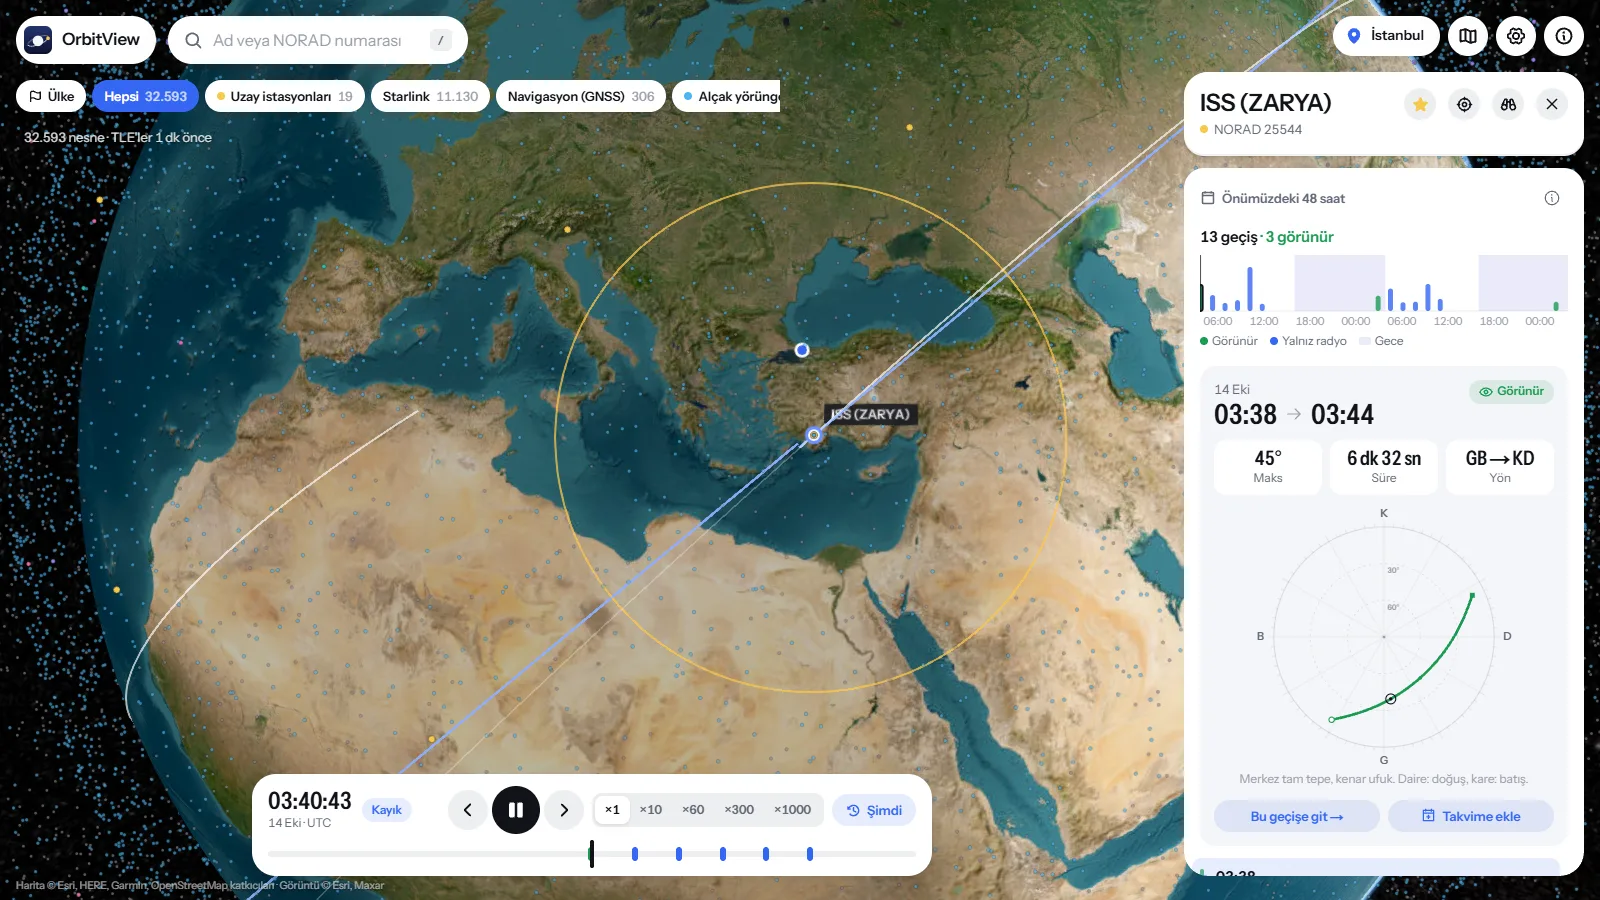
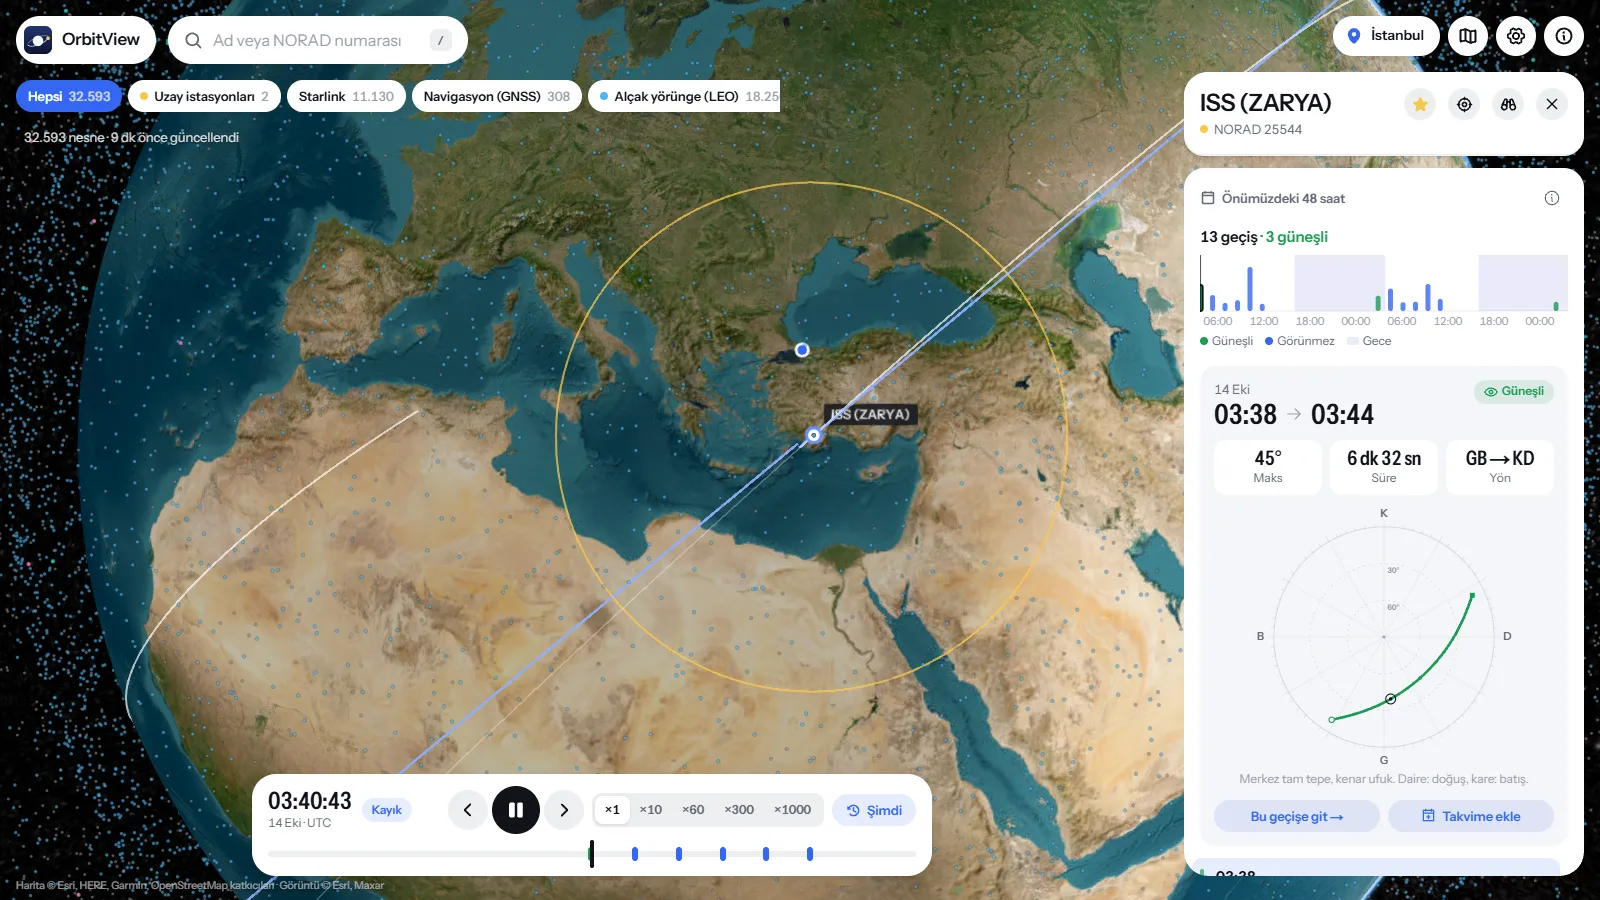
docs: station count, sunlit passes, redraw rate; new screenshots

diff --git a/docs/validation.md b/docs/validation.md
@@ -35,6 +35,7 @@ GEO satellite showed about 3 km/s of range rate, roughly 100 kHz at 12 GHz.
 | Maximum elevation | 5-second samples across the pass | none higher than reported + 0.01° |
 | Pass already in progress at window start | — | flagged, starts at the window |
 | Pass still in progress at window end | the same pass in a wider window | same LOS to 2 s |
+| "Sunlit" flag over three days | 5-second scan of sunlight and sky darkness | any sunlit stretch over 30 s is flagged; nothing in shadow is |
 
 ## Lifetime
 
@@ -45,6 +46,7 @@ GEO satellite showed about 3 km/s of range rate, roughly 100 kHz at 12 GHz.
 | Lower perigee | shorter lifetime |
 | B* = 0 | "drag not measurable" |
 | 1200 km perigee | beyond the 25-year horizon |
+| Badge | weeks / months / years / long-lived from the lifetime, not the perigee |
 
 ## Close approaches
 
@@ -65,6 +67,16 @@ GEO satellite showed about 3 km/s of range rate, roughly 100 kHz at 12 GHz.
 | SATCAT parsing | decayed objects dropped, quoted names, radar size |
 | Night window (Istanbul) | Sun below −6° just inside both edges, above it just before dusk |
 | Shared pass cache | one calculation per key; previous result shown while a new window loads |
+
+## Catalog labels — `catalog.test.ts`
+
+| What | Assertion |
+|---|---|
+| Space stations | exactly the ISS and Tiangong, not modules, vehicles, cubesats or "ISS DEB" |
+| Regime | geostationary needs i < 5°; BeiDou IGSO and QZSS are MEO; Molniya HEO; broken lines don't crash |
+| Debris | "OBJECT A" is not debris; SATCAT's object type wins over the name |
+| Chip counts | LEO + MEO + GEO + HEO + debris = everything, with and without SATCAT |
+| GNSS | real catalog names of GPS, GLONASS (incl. K), Galileo, BeiDou, QZSS, NavIC |
 
 ## Data layer — `tle.test.ts`, `db.test.ts`, `SpaceWeather.test.ts`, `route.test.ts`
 

diff --git a/README.tr.md b/README.tr.md
@@ -27,17 +27,18 @@ baştan dikkatle gözden geçirdim (aşağıda yazdığım birkaç gerçek düze
 ## Neler yapıyor
 
 - **Canlı katalog.** Aktif uydular (Space-Track hesabıyla enkaz dahil tüm
-  katalog) 3B kürede, saniyede 20 kez güncelleniyor. Renk yörüngeyi gösteriyor:
-  alçak yörünge açık mavi, orta yörünge camgöbeği, yer eşzamanlı mor, yüksek
-  eliptik pembe, istasyonlar sarı.
+  katalog) 3B kürede; bir şey hareket ettikçe yeniden çiziliyor (saniyede en
+  fazla 15 kez civarı, duraklatınca hiç). Renk yörüngeyi gösteriyor: alçak
+  yörünge açık mavi, orta yörünge camgöbeği, yer durağan mor, yüksek eliptik
+  pembe, enkaz gri; iki insanlı istasyon (ISS ve Tiangong) sarı.
 - **Üzerinizden geçişler.** Seçtiğiniz nesnenin konumunuzdan önümüzdeki 48
   saatteki geçişleri: yarım saniye hassasiyetle doğuş ve batış, en yüksek açı,
-  yön ve gerçekten görüp göremeyeceğiniz (uydu güneş altında, sizin
-  gökyüzünüz karanlık). Hepsi gece bölümleri gölgeli tek bir şeritte.
+  yön ve sizin gökyüzünüz karanlıkken uydunun güneş altında olup olmadığı —
+  yalnız en yüksek noktada değil, geçişin herhangi bir anında. Hepsi gece bölümleri gölgeli tek bir şeritte.
 - **Şu an önemli olan.** İlk kart duruma göre değişiyor: *şu an tepede, 3 dk
   sonra batıyor*; *görünür geçiş 21:42, en fazla 63°*; ya da sadece sıradaki
   geçiş.
-- **Doppler.** Bilinen iniş frekansları (ISS ses ve APRS, NOAA APT, Meteor LRPT,
+- **Doppler.** Bilinen iniş frekansları (ISS ses ve APRS, Meteor LRPT,
   GPS L1, Ku bandı) ya da yazdığınız herhangi bir frekans için alınan frekans ve
   kayma; sıradaki geçiş boyunca kayma eğrisi.
 - **Yörünge.** Ortalama elemanlar, yerberi/yeröte, periyot, eğim ve eleman

diff --git a/README.md b/README.md
@@ -26,18 +26,20 @@ from scratch.
 ## What it does
 
 - **Live catalog.** The active satellites (and, with a Space-Track account, the
-  full catalog including debris) drawn on a 3D globe and updated 20 times a
-  second. Colour shows the orbit: low Earth orbit in sky blue, MEO teal, GEO
-  violet, highly elliptical pink, stations yellow.
+  full catalog including debris) drawn on a 3D globe, redrawn when something
+  moves (up to about 15 times a second, not at all while paused). Colour shows
+  the orbit: low Earth orbit in sky blue, MEO teal, geostationary violet,
+  highly elliptical pink, debris grey; the two crewed stations (ISS and
+  Tiangong) are yellow.
 - **Passes over you.** For any object, the passes in the next 48 hours from
   your location: rise and set times to half a second, maximum elevation,
-  direction, and whether you'll actually see it (satellite in sunlight, your sky
-  dark). A strip shows all of them at once, with night shaded.
+  direction, and whether it is sunlit while your sky is dark — at any point
+  of the pass, not only at its highest. A strip shows all of them at once, with night shaded.
 - **What matters now.** The first card changes with the situation:
   *overhead now, sets in 3 min*; *visible pass at 21:42, up to 63°*; or simply
   the next pass.
 - **Doppler.** Received frequency and shift for common downlinks (ISS voice and
-  APRS, NOAA APT, Meteor LRPT, GPS L1, Ku band) or any frequency you type, plus
+  APRS, Meteor LRPT, GPS L1, Ku band) or any frequency you type, plus
   the shift curve across the next pass.
 - **Orbit.** Mean elements, perigee/apogee, period, inclination and how old the
   element set is.

diff --git a/CHANGELOG.md b/CHANGELOG.md
@@ -31,6 +31,27 @@ from scratch.
 - The inter-satellite link search missed most pairs between 1000 and 2500 km.
   It drew nothing, so it was removed.
 
+### Fixed — labels
+- "Space stations" counted all 19 objects in CelesTrak's stations list
+  (modules, cargo ships, cubesats, a piece of debris). It now means the ISS
+  and Tiangong.
+- Unidentified new launches ("OBJECT A") were counted as debris; with the
+  satellite catalog loaded, debris and rocket bodies come from its object type.
+- Geostationary needs an inclination under 5°; inclined geosynchronous
+  satellites (BeiDou IGSO, QZSS) are no longer listed as GEO. Every object now
+  has exactly one regime, so the chips add up to the whole catalog.
+- The GNSS filter missed GLONASS ("COSMOS … (7xx)"), Galileo and NavIC NVS.
+- A pass is marked sunlit if any part of it is, not only the culmination.
+  "Visible"/"Radio only" are now "Sunlit"/"Not visible": the app doesn't
+  estimate brightness, and debris doesn't transmit.
+- Doppler no longer defaults to the ISS voice frequency for every object and
+  is hidden for debris; the NOAA APT preset is gone (NOAA 15/18/19 are retired).
+- Lifetime badge follows the estimated lifetime (weeks / months / years /
+  long-lived) instead of the perigee height.
+- "TLEs 13 min old" was the download time; it now says "Updated 13 min ago".
+- Featured: NOAA 21 replaces the retired NOAA 19, and GOES 19 (GOES-East
+  since 2025) replaces GOES 16.
+
 ### Fixed — data
 - A failed TLE group no longer returns the default catalog under that group's
   name (which could label every satellite as a space station for two hours).

diff --git a/docs/FAQ.md b/docs/FAQ.md
@@ -1,9 +1,17 @@
 # FAQ
 
-**Why is the next pass listed as "radio only"?**
-The satellite is above your horizon but either in Earth's shadow or passing
-in daylight, so you won't see it with your eyes. You can still hear it if it
-transmits. Visible passes are green.
+**Why is the next pass listed as "not visible"?**
+The satellite is above your horizon but either in Earth's shadow for the whole
+pass or passing in daylight, so you won't see it with your eyes. Passes marked
+"sunlit" are green: the satellite is in sunlight while your sky is dark for at
+least part of the pass. Whether you can actually see it depends on how big
+and bright it is.
+
+**Why does "Space stations" show only two objects?**
+There are two crewed stations in orbit: the ISS and China's Tiangong.
+CelesTrak's "stations" list also has the ISS modules catalogued separately,
+cargo and crew vehicles, and small satellites released from the ISS. Those are
+still in the catalog and in search, under their orbit (LEO).
 
 **The pass time is a few seconds off from another site.**
 Small differences come from different element sets (they're updated several

diff --git a/THEORY.md b/THEORY.md
@@ -119,9 +119,13 @@ its real rise time, and a pass still in progress at the end of the window is
 followed until it sets. An object that never sets (a geostationary satellite
 in view) is reported as one pass covering the window.
 
-**Visibility.** A pass is marked visible when, at culmination, the satellite
-is sunlit and the Sun is more than 6° below the observer's horizon (civil
-twilight). Shadow uses a cylindrical Earth-shadow model, which is accurate to
+**Visibility.** A pass is marked sunlit when, at any moment of the pass, the
+satellite is in sunlight and the Sun is more than 6° below the observer's
+horizon (civil twilight). The pass is checked every 30 s plus its ends and
+culmination: evening passes often enter the shadow before their highest
+point. The app says "sunlit in a dark sky" rather than "visible" because it
+doesn't estimate brightness — a small cubesat can be sunlit and still far too
+faint to see. Shadow uses a cylindrical Earth-shadow model, which is accurate to
 a few seconds at the shadow boundary.
 
 Not modelled: atmospheric refraction (≈ 0.5° at the horizon, so real rises are
